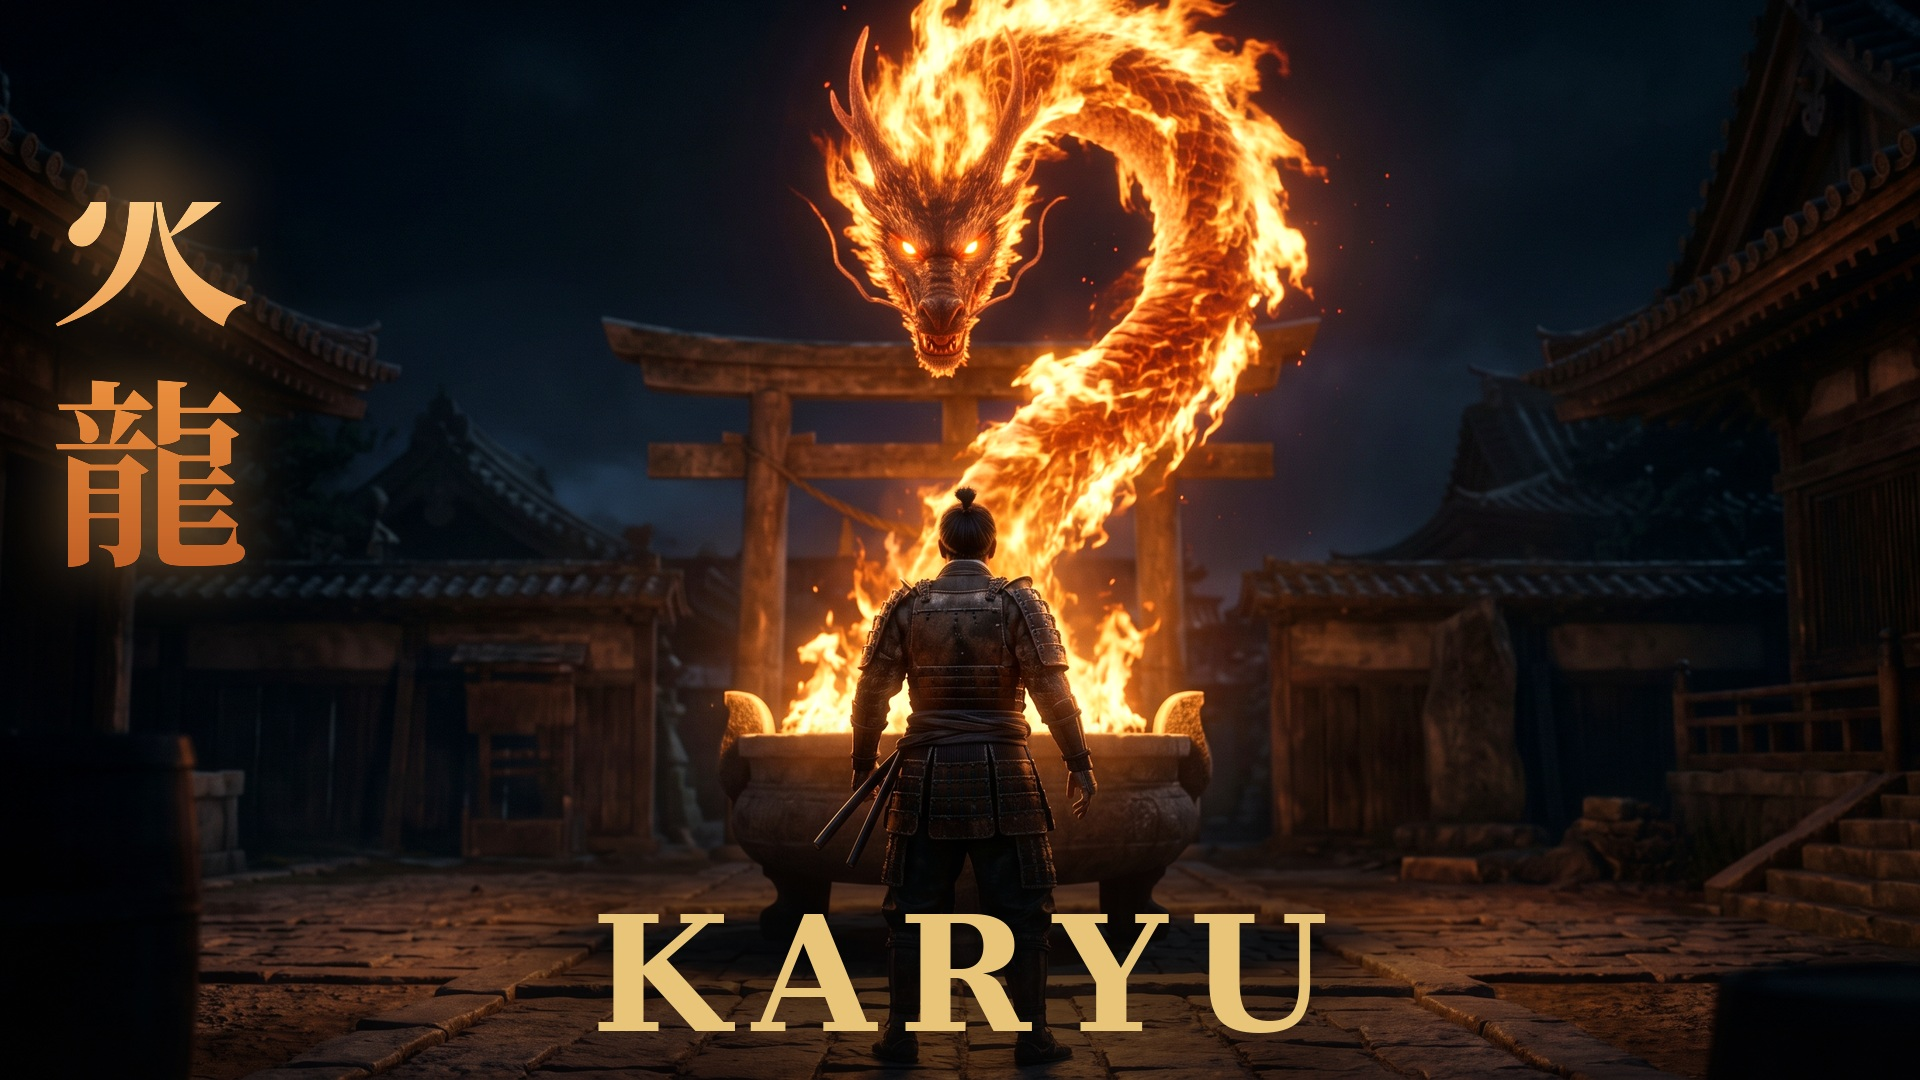
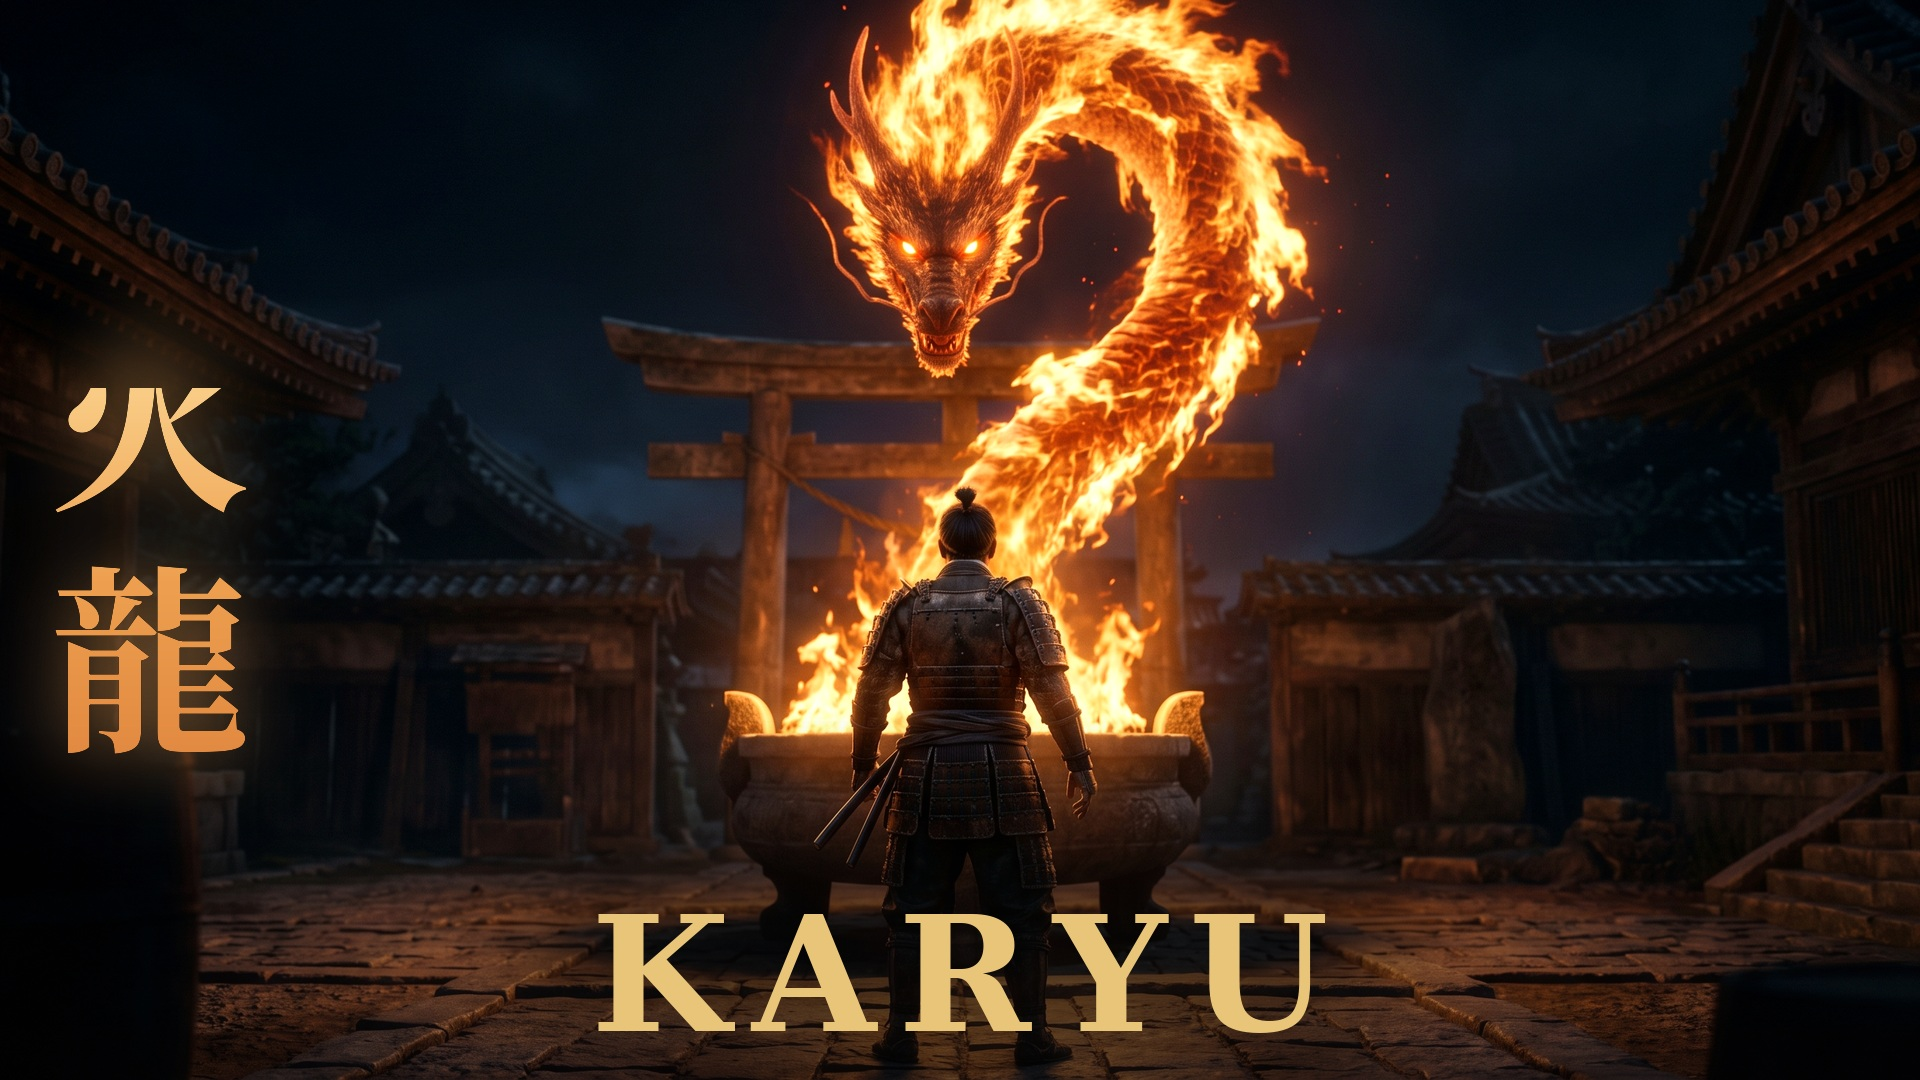
KARYU thumbnail: lower kanji to vertical middle, lighten gradient tail so 龍 stays legible

Changed region(s): [[0.0, 0.3056, 0.1562, 0.7333], [0.0312, 0.1222, 0.125, 0.3056]]

diff --git a/stillwave/assets/karyu-compose-thumb.py b/stillwave/assets/karyu-compose-thumb.py
@@ -8,6 +8,12 @@ at this isolated scale (confirmed in both fonts' raw glyphs, survives blur
 softening); plain IPA Gothic fixed that but read as too plain/sans. Noto Serif
 JP gives calligraphic weight AND a complete, unambiguous shape. KARYU large
 gold serif low-centre on the dark foreground stone.
+
+2026-08-28 round 2: user reported 龍 still looked "cut off" even with a
+complete glyph — root cause was the gradient's dark bottom stop (near-brown)
+losing contrast against the night sky, not the glyph shape. Lightened
+GOLD_STOPS' bottom stop and lowered the kanji block to the frame's vertical
+middle per user request ("опусти иероглиф ниже в середину").
 """
 from PIL import Image, ImageDraw, ImageFont, ImageFilter, ImageEnhance, ImageChops
 
@@ -17,7 +23,7 @@ SERIF = "/usr/share/fonts/truetype/dejavu/DejaVuSerif-Bold.ttf"
 OUT = "/home/user/dan-documents/stillwave/assets/karyu-2h-thumb.jpg"
 W, H = 1920, 1080
 GOLD = (232, 197, 120, 255)
-GOLD_STOPS = [(0.00, (250, 200, 130)), (0.45, (232, 140, 60)), (1.00, (180, 80, 30))]
+GOLD_STOPS = [(0.00, (250, 205, 135)), (0.45, (238, 160, 80)), (1.00, (222, 130, 60))]
 
 
 def base():
@@ -101,8 +107,8 @@ def spaced_centre(im, text, size, cx, y, fill=GOLD, ls=16, font=SERIF, scrim=Tru
 
 im = base()
 CENTRE = 960
-# 火龍 — VERTICAL calligraphic gold, left corner, well clear of the top edge
-gold_kanji_v(im, ["火", "龍"], 200, 150, 140, pitch=240, halo=30)
+# 火龍 — VERTICAL calligraphic gold, left corner, centred on the frame's vertical middle
+gold_kanji_v(im, ["火", "龍"], 200, 150, 326, pitch=240, halo=34)
 # KARYU — large gold serif, low-centre on the dark foreground stone
 spaced_centre(im, "KARYU", 160, CENTRE, 880, fill=GOLD, ls=22, font=SERIF)
 im.convert("RGB").save(OUT, quality=94)
